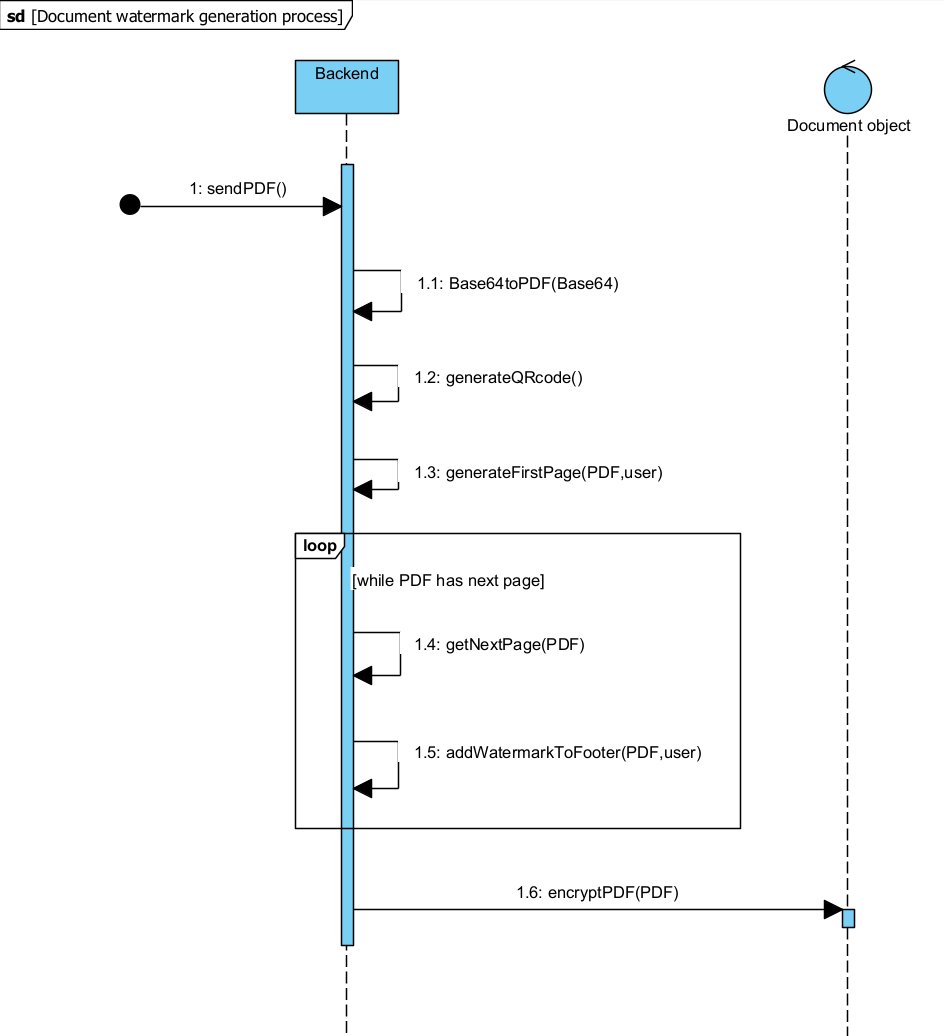
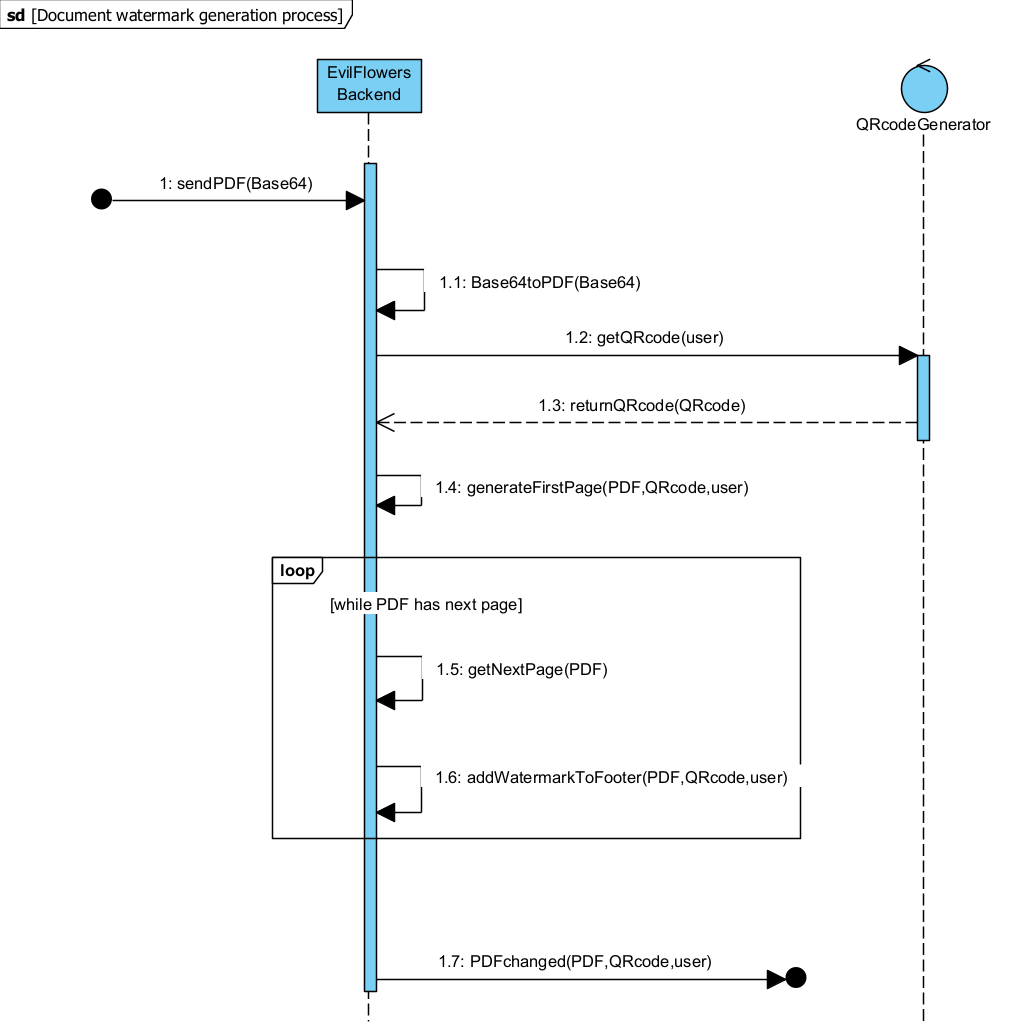
TP2022T16-62 document identification process enhancments

diff --git a/docs/specification/process/watermark_generation_process.md b/docs/specification/process/watermark_generation_process.md
@@ -1,6 +1,6 @@
 # Proces generovania footerov 
 
-Na obrázku nižšie sa nachádza sekvenčný diagram procesu tvorby footerov pre PDF súbory. Proces prebieha tak, že nám na backend príde očakávaný Base64, ktorý je prekonvertovaný na PDF. Následne sa vygeneruje QR kód, v ktorom sa budú nachádzať informácie o licencii PDF, vlastníkovi, čase vygenerovania. Vytvorí sa prvá strana, v ktorej sa budú nachádzať informácie o licencii PDF, ako aj údaje o vlastníkovi. PDF je následne  rozdelené na jednotlivé strany, na ktorých koniec sa bude pridávať footer, v ktorom sa bude nachádzať vyššie spomínaný QR kód, meno používateľa, pre ktorého je PDF licencované spolu s dátumom a časom vytvorenia.
+Na obrázku nižšie sa nachádza sekvenčný diagram procesu tvorby footerov pre PDF súbory. Proces prebieha tak, že nám na backend EvilFlowers príde očakávaný Base64, ktorý je prekonvertovaný na PDF. Následne sa vygeneruje QR kód, v ktorom sa budú nachádzať informácie o licencii PDF, vlastníkovi, čase vygenerovania. Vytvorí sa prvá strana, v ktorej sa budú nachádzať informácie o licencii PDF, ako aj údaje o vlastníkovi. PDF je následne  rozdelené na jednotlivé strany, na ktorých koniec sa bude pridávať footer, v ktorom sa bude nachádzať vyššie spomínaný QR kód.
 
 ![Sekvenčný diagram procesu generovania PDF footerov](@site/static/img/footer_sequence_diagram.png)
 
